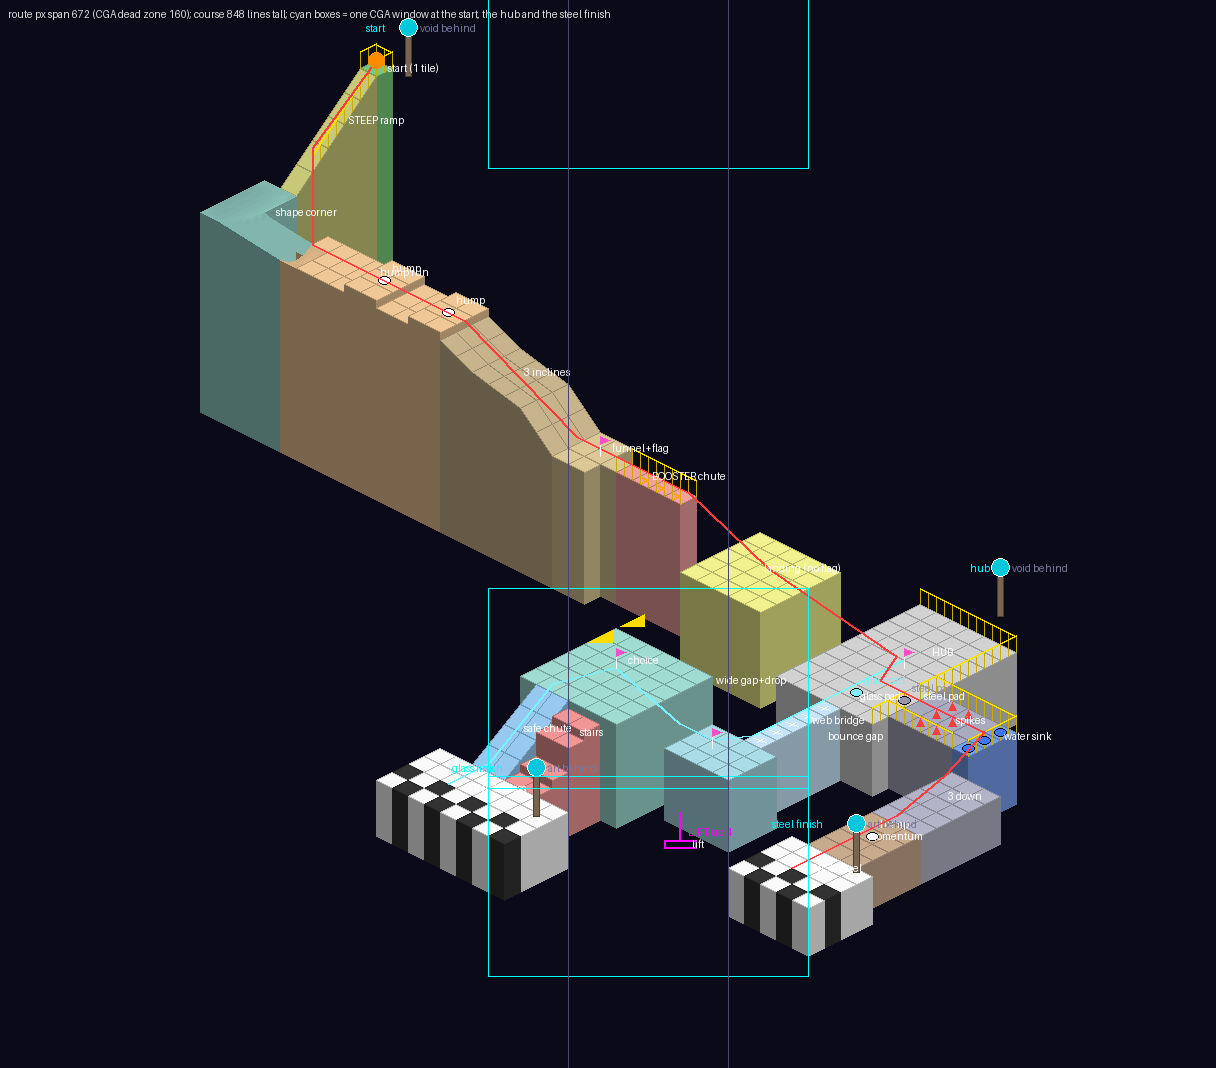
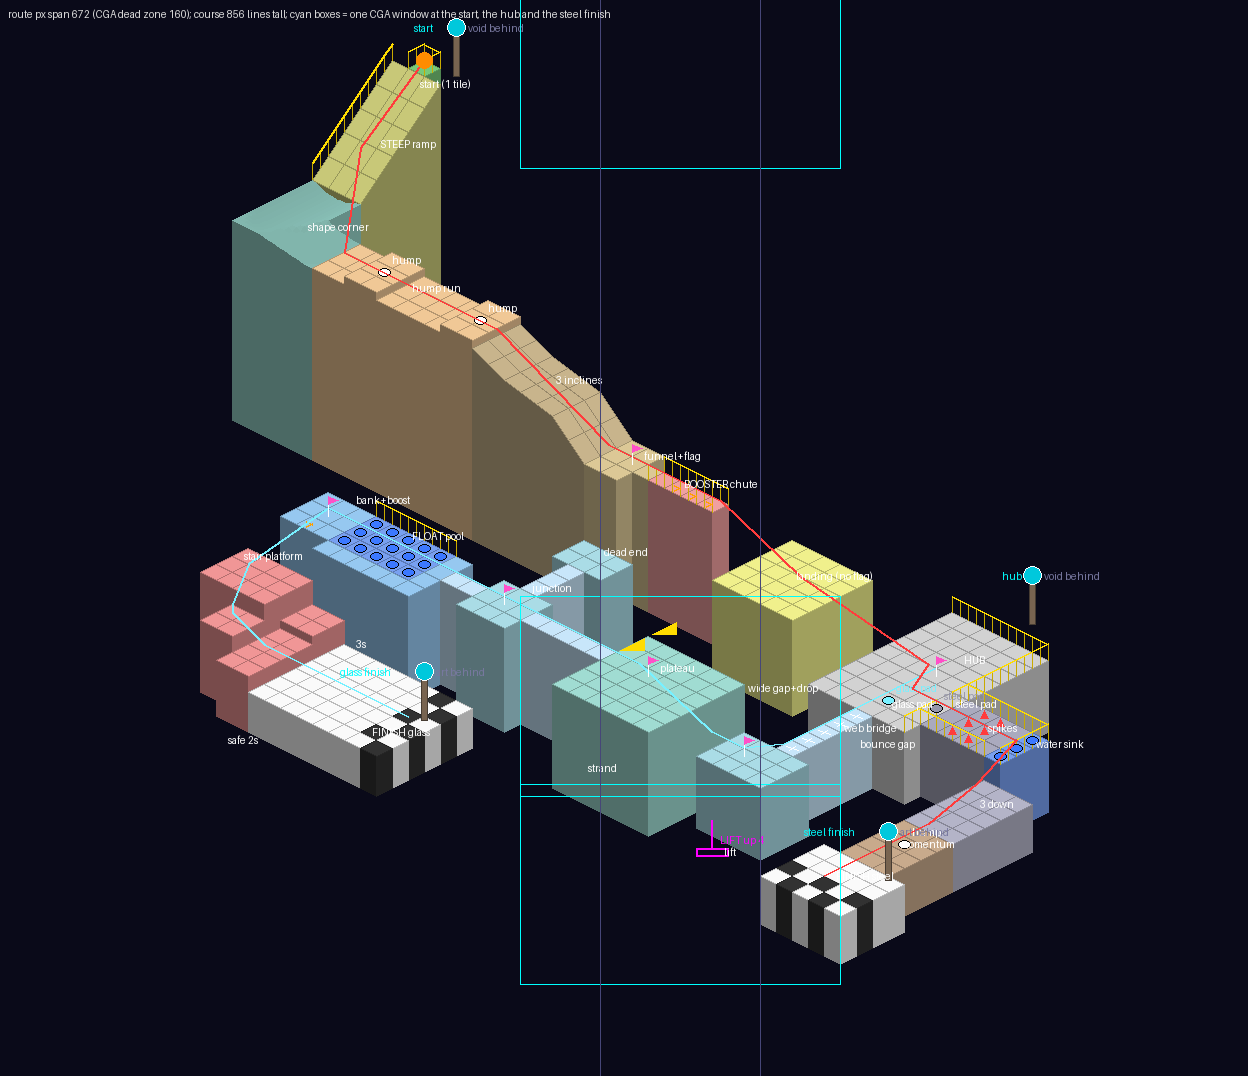
Bonanza DOWN rev 9 (a DRAFT): glass goes west - a web maze, a float pool, a boost, a wrapped staircase
From the plateau a 1-wide membrane strand to a junction (flag 4), a dead-end
strand north, a strand west into a FLOAT pool (water, no arch: glass rides
it; a guard rail north, banks east and south), the far bank (flag 5) with a
boost south over a 2-tile gap onto the stair platform, then the choice: the
short way straight on east in two 3-unit drops (glass shatters) or the safe
way round, south then east, in 2-unit steps, to the finish. Origin 288: the
west end needs the width. The south guard rail first tried crowded one block
past the 4-record bound; a bank does the sealing there.

Claude-Session: https://claude.ai/code/session_01Wo8a4suEiDfFPFBsnHYKF3

diff --git a/docs/plans/bonanza-courses/down/sketch.py b/docs/plans/bonanza-courses/down/sketch.py
@@ -217,13 +217,30 @@ for y in range(17, 22):
 floor("P", 43, 22, 47, 25, Z - 26)                           # the bridge's landing
 mark(42.5, 23.5, "lift", "LIFT up 4")                        # the LIFT, on P's west edge: it rises in FRONT of Q
 floor("Q", 36, 21, 42, 27, Z - 22)                           # the CHOICE plateau, behind the lift (its face in view)
-ramp("Y", "y", 38, 27, 39, 31, Z - 22, Z - 28)               # (left; rev 7 ONE wide, so the stairs look the safer) a CHUTE down (a ramp sketched; a shape)
-floor("Z", 39, 27, 41, 28, Z - 23)                           # (right) STAIRS: two safe 1-unit steps, then ONE
-floor("Z", 39, 28, 41, 29, Z - 24)                           #   3-unit step in the middle (glass SHATTERS from 3),
-floor("Z", 39, 29, 41, 30, Z - 27)                           #   then one more onto the finish, flush
-floor("Z", 39, 30, 41, 31, Z - 28)
-floor("V", 35, 31, 43, 35, Z - 28)                           # FINISH 2, glass (exit 1)
-GOAL = {(x, y) for x in range(51, 56) for y in range(27, 29)} | {(x, y) for x in range(35, 43) for y in range(33, 35)}
+# rev 9 (the owner, a DRAFT): glass goes on WEST - a simple WEB MAZE over the void (1-wide membrane strands, one
+# dead end), a FLOAT pool as one of its crossings (water with no arch: glass rides it), a BOOST off the pool's far
+# bank over a gap onto the stair platform, and a WRAPPED staircase to the finish: the safe way round in 2-unit
+# steps, the short way straight down in two 3-unit drops (glass SHATTERS from 3) - "the choice is between the 3/2"
+floor("K", 31, 23, 36, 24, Z - 22)                           # strand 1, west off the plateau
+floor("P", 28, 22, 31, 25, Z - 22)                           # the maze's junction (a flag)
+floor("K", 29, 19, 30, 22, Z - 22)                           # strand 2, north: a DEAD END
+floor("P", 28, 17, 31, 19, Z - 22)                           #   its little pad (nothing there)
+floor("K", 26, 23, 28, 24, Z - 22)                           # strand 3, west, into the pool
+floor("W", 20, 22, 25, 25, Z - 22)                           # the FLOAT pool, 3 deep, no arch: glass rides across
+rail(20, 22, 25, 22, "guard")                                # a guard rail seals it north, a bank south,
+floor("Y", 20, 25, 25, 26, Z - 22)
+floor("Y", 25, 22, 26, 26, Z - 22)                           # and a bank east, where strand 3 lands    #   and either side of strand 3's mouth
+for x in range(20, 25):
+    for y in range(22, 25):
+        mark(x + 0.5, y + 0.5, "water", "")
+floor("Y", 17, 22, 20, 25, Z - 22)                           # the far bank (a flag), and its BOOST south
+mark(18.5, 24.5, "boost", "")
+floor("Z", 17, 27, 21, 30, Z - 24)                           # the STAIR platform, 2 down past a 2-tile gap
+floor("Z", 21, 27, 23, 29, Z - 27)                           # the SHORT way, straight on east: 3, then 3 - glass shatters
+floor("Z", 19, 30, 21, 32, Z - 26)                           # the SAFE way wraps round, south then east: 2,
+floor("Z", 21, 29, 23, 33, Z - 28)                           #   2,
+floor("V", 23, 27, 31, 33, Z - 30)                           #   2 - onto FINISH 2, glass (exit 1)
+GOAL = {(x, y) for x in range(51, 56) for y in range(27, 29)} | {(x, y) for x in range(29, 31) for y in range(27, 33)}
 
 # the PROPS the sketch does not model, as the engine's statements (world cells: sketch + OFF)
 def _w(x):
@@ -249,28 +266,37 @@ EXTRA = [
     "# glass: the MEMBRANE bridge, thin (glass-only, SPEC.md 130.38), and the LIFT (SPEC.md 130.12.6.4)",
     "prop membrane %d %d %d %d" % (_w(45), _w(17), _w(46), _w(22)),
     "prop platform %d %d 4" % (_w(42), _w(23)),
+    "# glass's maze (rev 9): its strands membrane, the FLOAT pool (water, no arch), the far bank's BOOST",
+    "prop membrane %d %d %d %d" % (_w(31), _w(23), _w(36), _w(24)),
+    "prop membrane %d %d %d %d" % (_w(29), _w(19), _w(30), _w(22)),
+    "prop membrane %d %d %d %d" % (_w(26), _w(23), _w(28), _w(24)),
+    "water rect %d %d %d %d top %g bed %g" % (_w(20), _w(22), _w(25), _w(25), Z - 22, Z - 25),
+    "prop boost %d %d face +y strength 40" % (_w(18), _w(24)),
     "# steel's MOMENTUM: a ridge hump across its 3-wide path, 8 px (11 stopped the slow steel ball)",
     "hump %d %d %g along x 3 open height 8" % (_w(52), _w(23), Z - 29),
 ]
-GOAL_RECTS = [(51, 27, 56, 29, Z - 29, 0, "steel"), (35, 33, 43, 35, Z - 28, 1, "glass")]
+GOAL_RECTS = [(51, 27, 56, 29, Z - 29, 0, "steel"), (29, 27, 31, 33, Z - 30, 1, "glass")]
 
 START = (4.5, 4.5 - N)
 FLAGS = [(26.5, 12.5, "flag 0", "rubber"), (45.5, 12.5, "flag 1", "rubber"), (44.5, 23.5, "flag 2", "glass"),
-         (38.5, 23.5, "flag 3", "glass")]       # (rev 4: no flag at steel's entrance; one on the lift's top too)
+         (38.5, 23.5, "flag 3", "glass"), (29.5, 23.5, "flag 4", "glass"), (18.5, 23.5, "flag 5", "glass")]       # (rev 4: no flag at steel's entrance; one on the lift's top too)
 CLOCKS = [(6.5, 4.5 - N, Z, "start", "block"), (46.5, 7.5, Z - 24.5, "hub", "block"), (56.5, 26.5, Z - 27.5, "steel finish", "block"),
-          (43.5, 33.5, Z - 26.5, "glass finish", "block")]
+          (31.5, 30.5, Z - 28.5, "glass finish", "block")]
 FRAMES = {}
 PLACED = {}
 SIGNS = []
 ROUTE = [(4.5, 4.5 - N), (4.5, 8.5 - N), (8.5, 12.5), (18, 12.5), (25, 12.5), (28, 12.5), (32, 12.5), (37, 12.5),
          (45, 12.5), (46, 14.5), (48, 14.5), (52.5, 14.5), (52.5, 17), (53.5, 21), (53.5, 25), (53.5, 27.5)]
-ROUTE2 = [(45.5, 12.5), (45.5, 17), (45.5, 22), (44.5, 23.5), (42.5, 23.5), (39, 24), (38, 27), (38, 31), (38, 33.5)]
+ROUTE2 = [(45.5, 12.5), (45.5, 17), (45.5, 22), (44.5, 23.5), (42.5, 23.5), (38, 23.5), (29.5, 23.5), (22, 23.5), (18.5, 23.5), (18.5, 28.5),
+          (19.5, 30.5), (20, 31), (22, 31), (25, 30), (30, 30)]
 LABELS = [(4.5, 4.5, "start (1 tile)"), (4.5, 7, "STEEP ramp"), (5, 12, "shape corner"), (12, 12.5, "hump run"),
           (21, 12.5, "3 inclines"), (26, 12, "funnel+flag"), (29, 12.5, "BOOSTER chute"), (33, 12.5, "wide gap+drop"),
           (36, 12.5, "landing (no flag)"), (40, 12.5, "bounce gap"), (45, 11, "HUB"), (47.5, 14, "steel pad"),
           (50, 14.5, "spikes"), (52.5, 14, "water sink"), (53, 18, "3 down"), (53, 23, "momentum"),
           (53, 27, "FINISH steel"), (45.5, 16, "glass pad"), (45.5, 19, "web bridge"), (42.5, 23.5, "lift"),
-          (38, 23, "choice"), (37.5, 29, "safe chute"), (40, 28, "stairs"), (38, 33, "FINISH glass")]
+          (38, 23, "plateau"), (33, 22.5, "strand"), (29, 22, "junction"), (29, 17.5, "dead end"),
+          (22, 22.5, "FLOAT pool"), (18, 22, "bank+boost"), (17, 28, "stair platform"), (20, 32, "safe 2s"),
+          (23, 27, "3s"), (29, 32, "FINISH glass")]
 
 # --- drawing ----------------------------------------------------------------
 SECCOL = {k: v for k, v in zip("ARCHDBLXSWTMGNKPQYZVF", [(120, 200, 120), (200, 200, 120), (150, 210, 200),
@@ -491,7 +517,7 @@ HEAD_TXT = """
 course DOWN "Downhill Decision"
 guide                     # a REAL course: held to the course guide's checkable rules
 width 128
-origin 256                # the reach spans the 60 tiles 1024 px allow
+origin 288                # the reach spans the 60 tiles 1024 px allow
 uses boost spike water
 ball rubber
 music trial               # the owner: Bounce Trial, kept for course 3 (its speaker ring fix: spkring)
